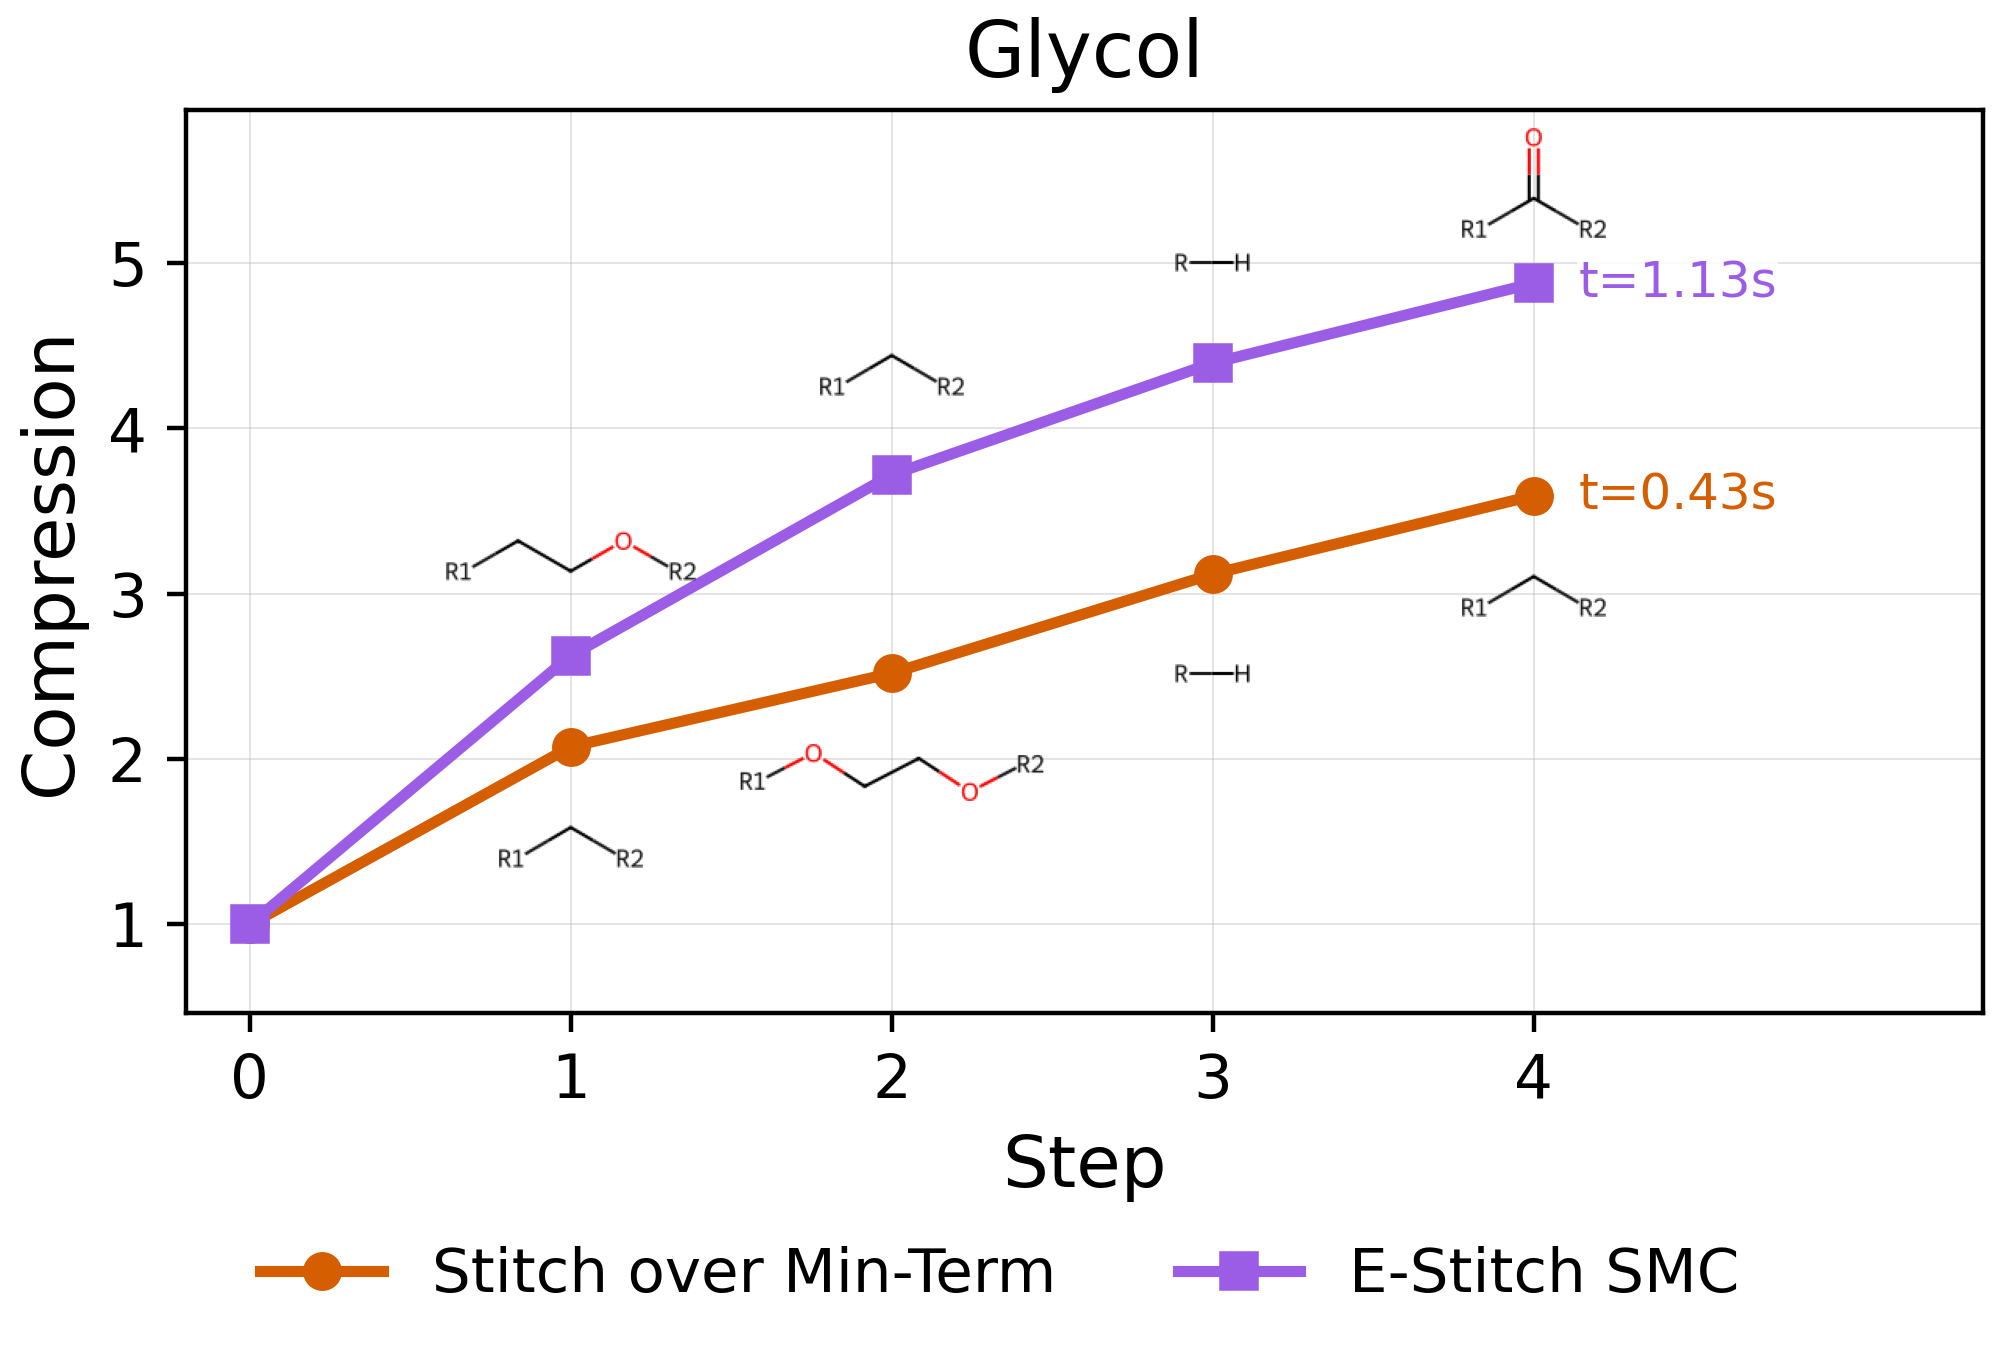
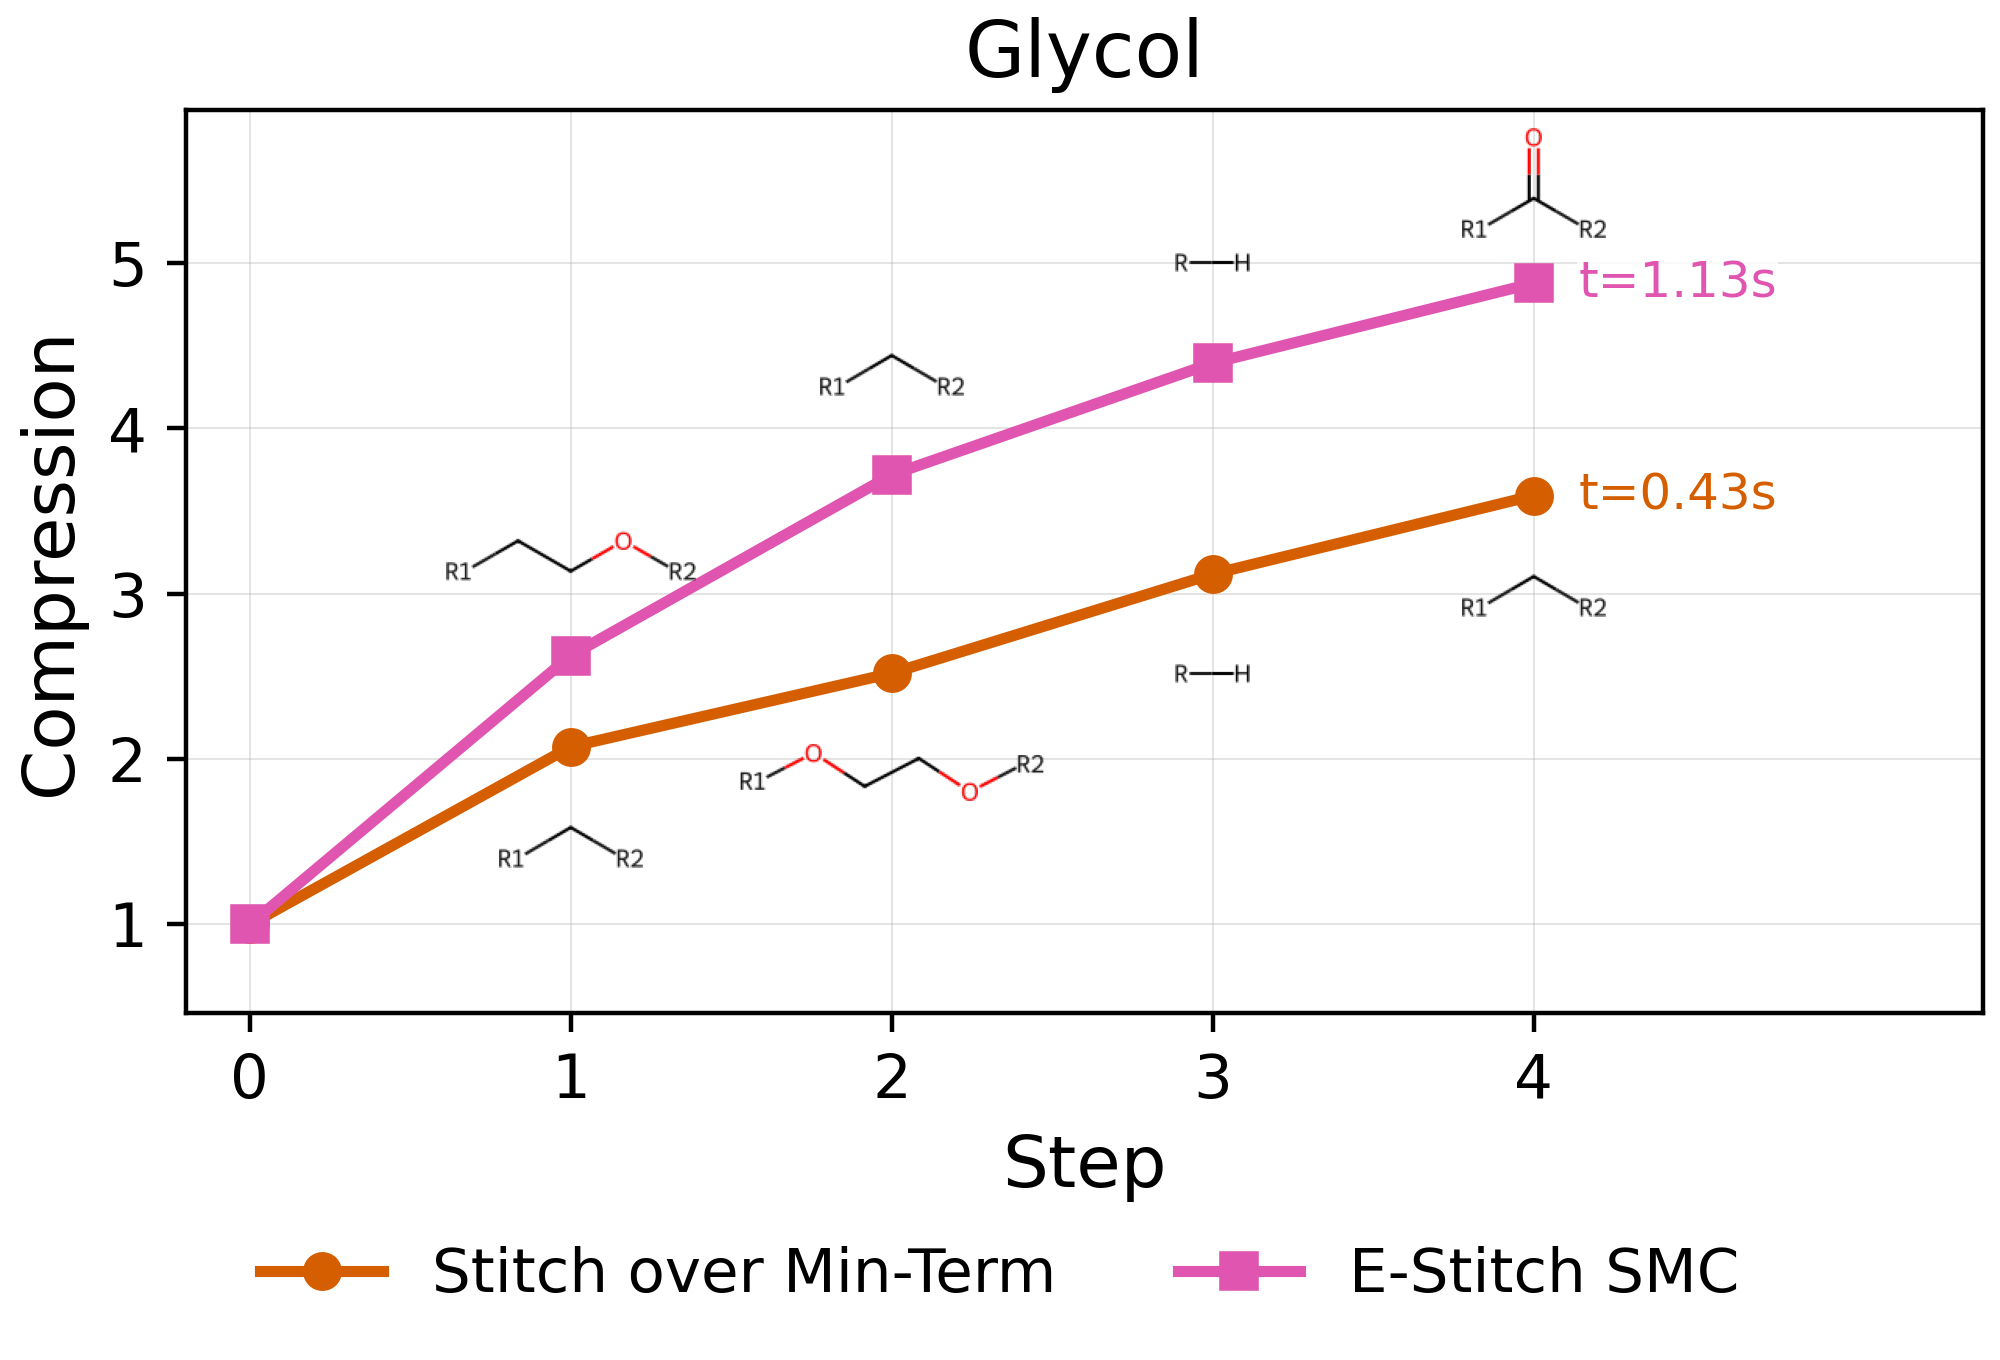
Draw SMC in light magenta in the per-family molecule progress plots

diff --git a/scripts/render_molecules.py b/scripts/render_molecules.py
@@ -59,7 +59,7 @@ METHOD_COMMON_NAME = {
 # colors and names.
 SLIDE_METHOD_COLORS = {
     "DSR-canon": "#D55E00",
-    "search-DSR": "#9B5DE5",
+    "search-DSR": "#E055B0",
 }
 SLIDE_METHOD_NAME = {
     "DSR-canon": "Stitch over Min-Term",
